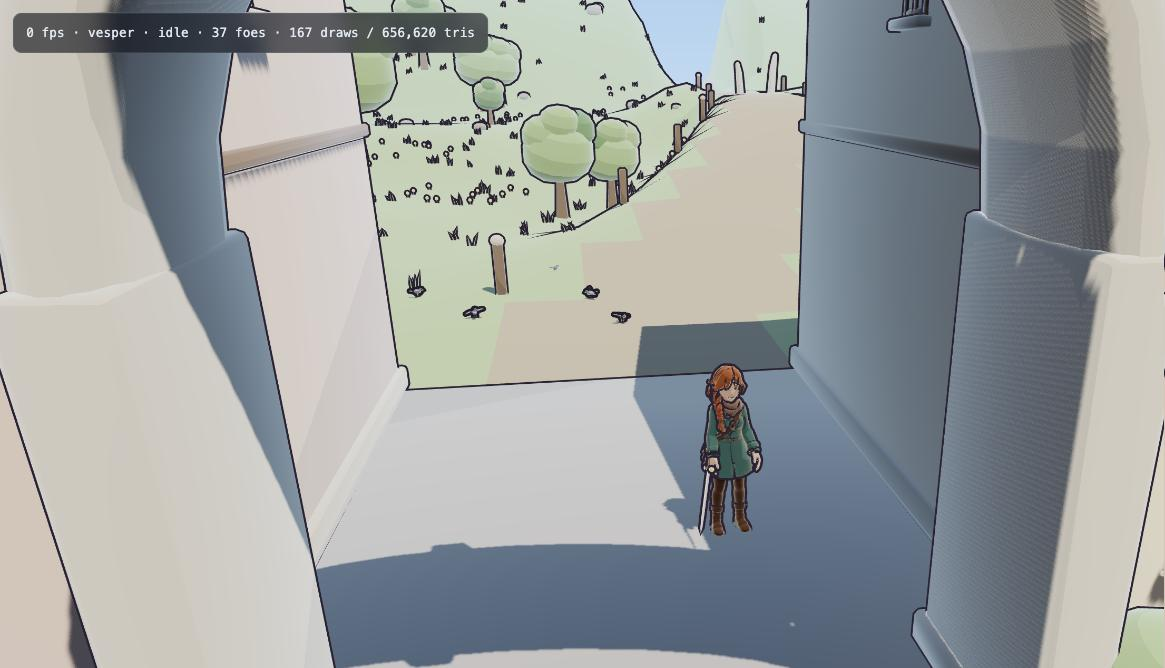
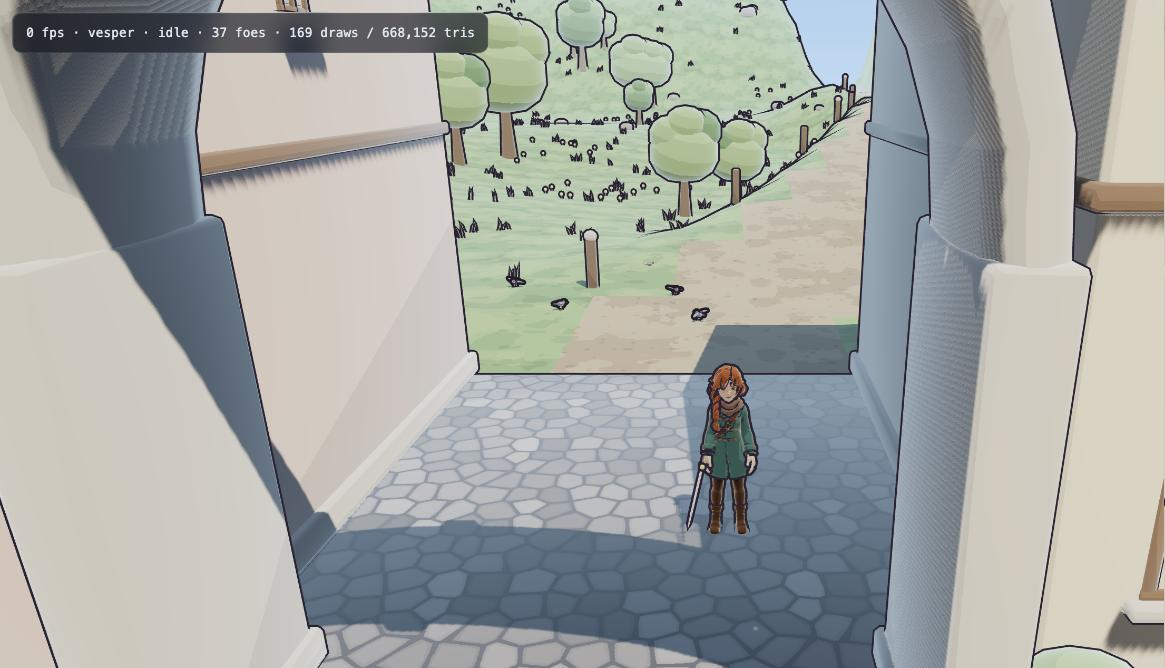
Clean shadows
The audit found a herringbone speckle across the gate pillars that crawls as
you walk. Two causes, and both had to go:

The light follows the player so a 32 m shadow frustum can cover a 200 m world,
and it followed CONTINUOUSLY -- so every texel's world position drifted a
fraction each frame and the depth comparison flickered in and out of tolerance.
It now moves in whole-texel steps, which makes the shadow map the same map
shifted by an integer rather than a slightly different projection.

And the town casts from its BACK faces now. It is closed, bevelled solids, so
the surface nearest the light was also the surface being tested -- which is
what self-shadowing acne is. Writing only back faces into the depth map moves
the reference surface to the far side of the object, where nothing visible is
compared against it.

Tuned against the gate pillars specifically, because they are the worst case in
the build: thin, bevelled, and nearly parallel to the light. Verified by turning
shadows off and back on rather than by staring at it -- with them off the
crosshatch vanished entirely, which is what said it was the shadow map and not
the toon ramp banding on a curved surface.

diff --git a/public/js/main.js b/public/js/main.js
@@ -49,8 +49,13 @@ key.shadow.camera.left = -16;
 key.shadow.camera.right = 16;
 key.shadow.camera.top = 16;
 key.shadow.camera.bottom = -16;
-key.shadow.bias = -0.0006;
-key.shadow.normalBias = 0.03;
+// A LARGE normalBias AND back-face casting, tuned together against the gate
+// pillars -- the worst case in the build, being thin, bevelled and nearly
+// parallel to the light. normalBias offsets the lookup along the surface
+// normal, which is exactly the correction a grazing surface needs; bias stays
+// small so contact shadows still touch what casts them.
+key.shadow.bias = -0.0004;
+key.shadow.normalBias = 0.06;
 scene.add(key, key.target);
 
 // Fill stays LOW: piling on ambient lifts the shadow band toward the lit band
@@ -172,6 +177,15 @@ function applyTownLook(root) {
     // scene, so a 6k-triangle terrain and 500 grass tufts casting shadows
     // nobody can see is the most expensive nothing in the build. Ground
     // receives; small foliage does neither.
+    // SHADOW-CAST FROM THE BACK FACES.
+    //
+    // The town is closed, bevelled solids, so the surface nearest the light is
+    // also the surface being tested -- which is what self-shadowing acne IS.
+    // Writing only back faces into the depth map moves the reference surface to
+    // the far side of the object, where nothing visible is being compared
+    // against it. Texel snapping stopped the speckle crawling; this is what
+    // stops it existing.
+    m.material.shadowSide = THREE.BackSide;
     m.castShadow = !NO_SHADOW_ENV.has(name);
     m.receiveShadow = !TINY_ENV.has(name);
   }
@@ -1232,8 +1246,23 @@ function step(dt) {
   camera.lookAt(camTarget);
   applyShake();
 
-  key.position.set(pos.x + 7, pos.y + 24, pos.z + 9);
-  key.target.position.set(pos.x, pos.y, pos.z);
+  // SNAP THE SHADOW CAMERA TO ITS OWN TEXEL GRID.
+  //
+  // The light follows the player so a 32 m shadow frustum can cover a 200 m
+  // world. Following CONTINUOUSLY means every texel's world position drifts a
+  // fraction each frame, so the depth comparison flickers in and out of
+  // tolerance along grazing surfaces -- a herringbone speckle across the gate
+  // pillars that crawls as you walk, and reads exactly like a broken renderer.
+  //
+  // Moving in whole-texel steps makes the sampling stable: the shadow map is
+  // the same map shifted by an integer, not a slightly different projection.
+  const SPAN = 32;                       // left..right of the shadow frustum
+  const texel = SPAN / key.shadow.mapSize.x;
+  const sx = Math.round(pos.x / texel) * texel;
+  const sz = Math.round(pos.z / texel) * texel;
+  const sy = Math.round(pos.y / texel) * texel;
+  key.position.set(sx + 7, sy + 24, sz + 9);
+  key.target.position.set(sx, sy, sz);
   key.target.updateMatrixWorld();
 
   return isMoving;

diff --git a/docs/COMBAT-BAR.md b/docs/COMBAT-BAR.md
@@ -208,30 +208,34 @@ the creature pipeline was built to deliver was cancellable by mashing, enemy
 attacks could not miss, and one interruption disarmed an enemy for good. That
 whole cluster is fixed above. What it found that is still open:
 
-1. **No textures anywhere.** Every surface is flat colour plus a toon ramp; the
-   material named `cobble` has no cobble in it. This is the biggest remaining
-   visual gap and it is a whole subsystem, not a fix.
-2. **No verticality.** Nothing to climb, no upper storey, no balcony, no
+1. **No verticality.** Nothing to climb, no upper storey, no balcony, no
    below-grade. The jump clears a 1.1 m terrace and that is the entire vertical
    vocabulary.
-3. **Shadow acne on the gate pillar** — a herringbone speckle over a ±16 m ortho
-   frustum that shimmers as you walk, because the light translates with the
-   player with no texel snapping.
-4. **Hard-edged terrain material splotches** — grass/dirt assigned per face on a
-   1.6 m grid with no blend, which reads as discoloured patches.
-5. **Damage numbers have no occlusion** and are drawn over whatever is behind
+2. **Only the ground is textured.** Facades, roofs and props are still flat
+   colour plus a toon ramp. The ground was the surface that mattered most --
+   it fills the frame — but a plaster wall with no plaster in it is the same
+   fault one storey up.
+3. **Damage numbers have no occlusion** and are drawn over whatever is behind
    them.
-6. **The move list is small** even for one weapon: chain, air attack, dodge. No
+4. **The move list is small** even for one weapon: chain, air attack, dodge. No
    guard, parry, dash attack, charged hit or jump-cancel.
-7. **The playable characters are not generated.** They are imported meshes from
+5. **The playable characters are not generated.** They are imported meshes from
    another project, retargeted and re-rigged here — the README says so, but the
    "everything is scripted geometry" framing does not hold for the character you
    look at the whole time.
-8. **Enemy tells are silhouette-only** on a target ~45 px tall at fighting
+6. **Enemy tells are silhouette-only** on a target ~45 px tall at fighting
    distance. Palette now carries role (bone / cyan / ember), which helps, but
    there is no ground indicator or flash on the wind-up itself.
 
-*Answered from the audit:* the whole enemy-attack cluster above; three hostiles
+*Answered from the audit:* the whole enemy-attack cluster above; **no textures
+anywhere** (the plaza, terrace, meadow grass and worn path are all generated
+now — a Voronoi whose cell boundaries are the mortar lines for the paving,
+banded noise for the ground; four separate silent failures stood between the
+generator and a visible pixel, ending with `export_texcoords=False` sitting in
+the town's own export call); **shadow acne on the gate pillars** (texel-snapped
+shadow camera plus back-face casting and a normalBias tuned against the worst
+surface in the build); the **terrain splotches**, softened because grass and
+path now share one continuous UV set; three hostiles
 that were mutually indistinguishable at range (each now owns an accent colour —
 bone for the swarmer, cyan for the charger, ember for the brute, and the
 Bellow's sack glows as it inflates); no swing VFX at all (there is now a blade
